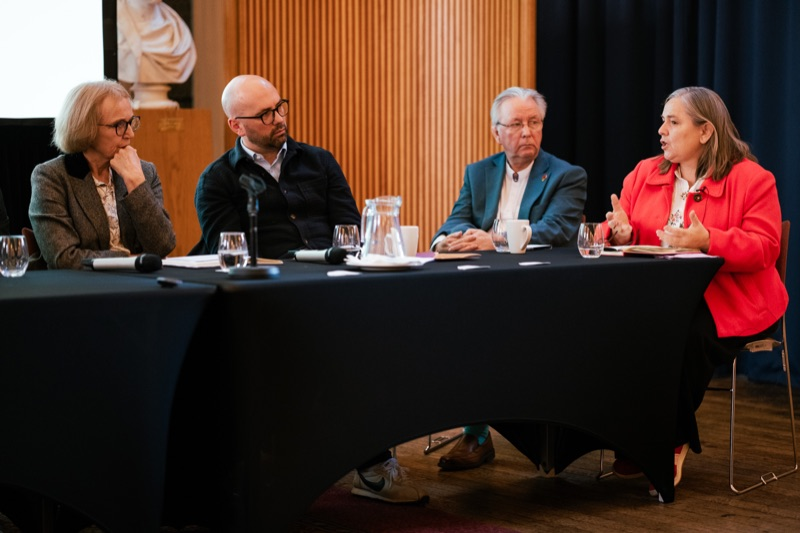
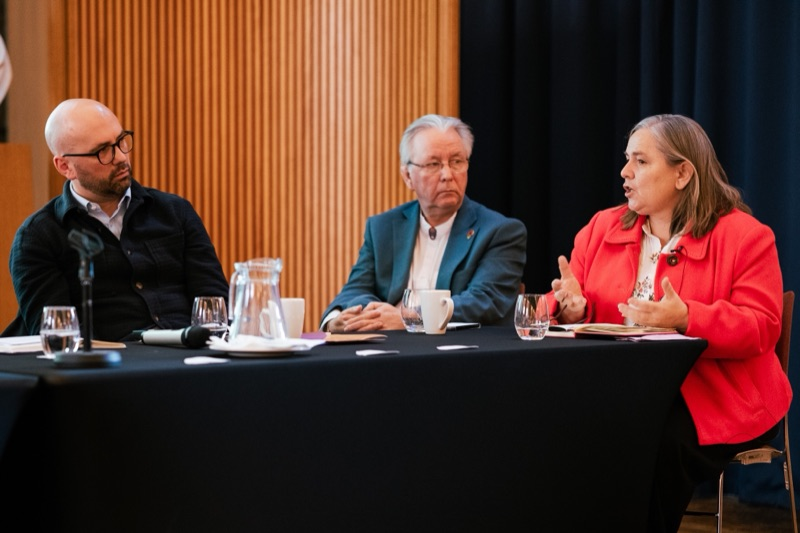
Track record: Edinburgh's panel photo cropped, and the list introduced

diff --git a/app/(site)/track-record/_components/Timeline.tsx b/app/(site)/track-record/_components/Timeline.tsx
@@ -19,7 +19,7 @@ export default function Timeline() {
               </p>
               <p>
                 We convened a panel of experts and politicians at the Playfair Library in Edinburgh to discuss the
-                issues, propose solutions and answer questions from the public.
+                issues, propose solutions and answer questions from the public, with:
               </p>
               <EntryList>
                 <li>
@@ -62,7 +62,7 @@ export default function Timeline() {
               <Shot
                 href="/images/edinburgh-conference-nov-2026/edinburgh-panel.jpg"
                 src="/images/edinburgh-conference-nov-2026/edinburgh-panel-thumb.jpg"
-                alt="Four panellists at a table, one of them speaking"
+                alt="Three panellists at a table, one of them speaking"
                 sizes="(max-width: 768px) 100vw, 50vw"
               />
               <Shot
